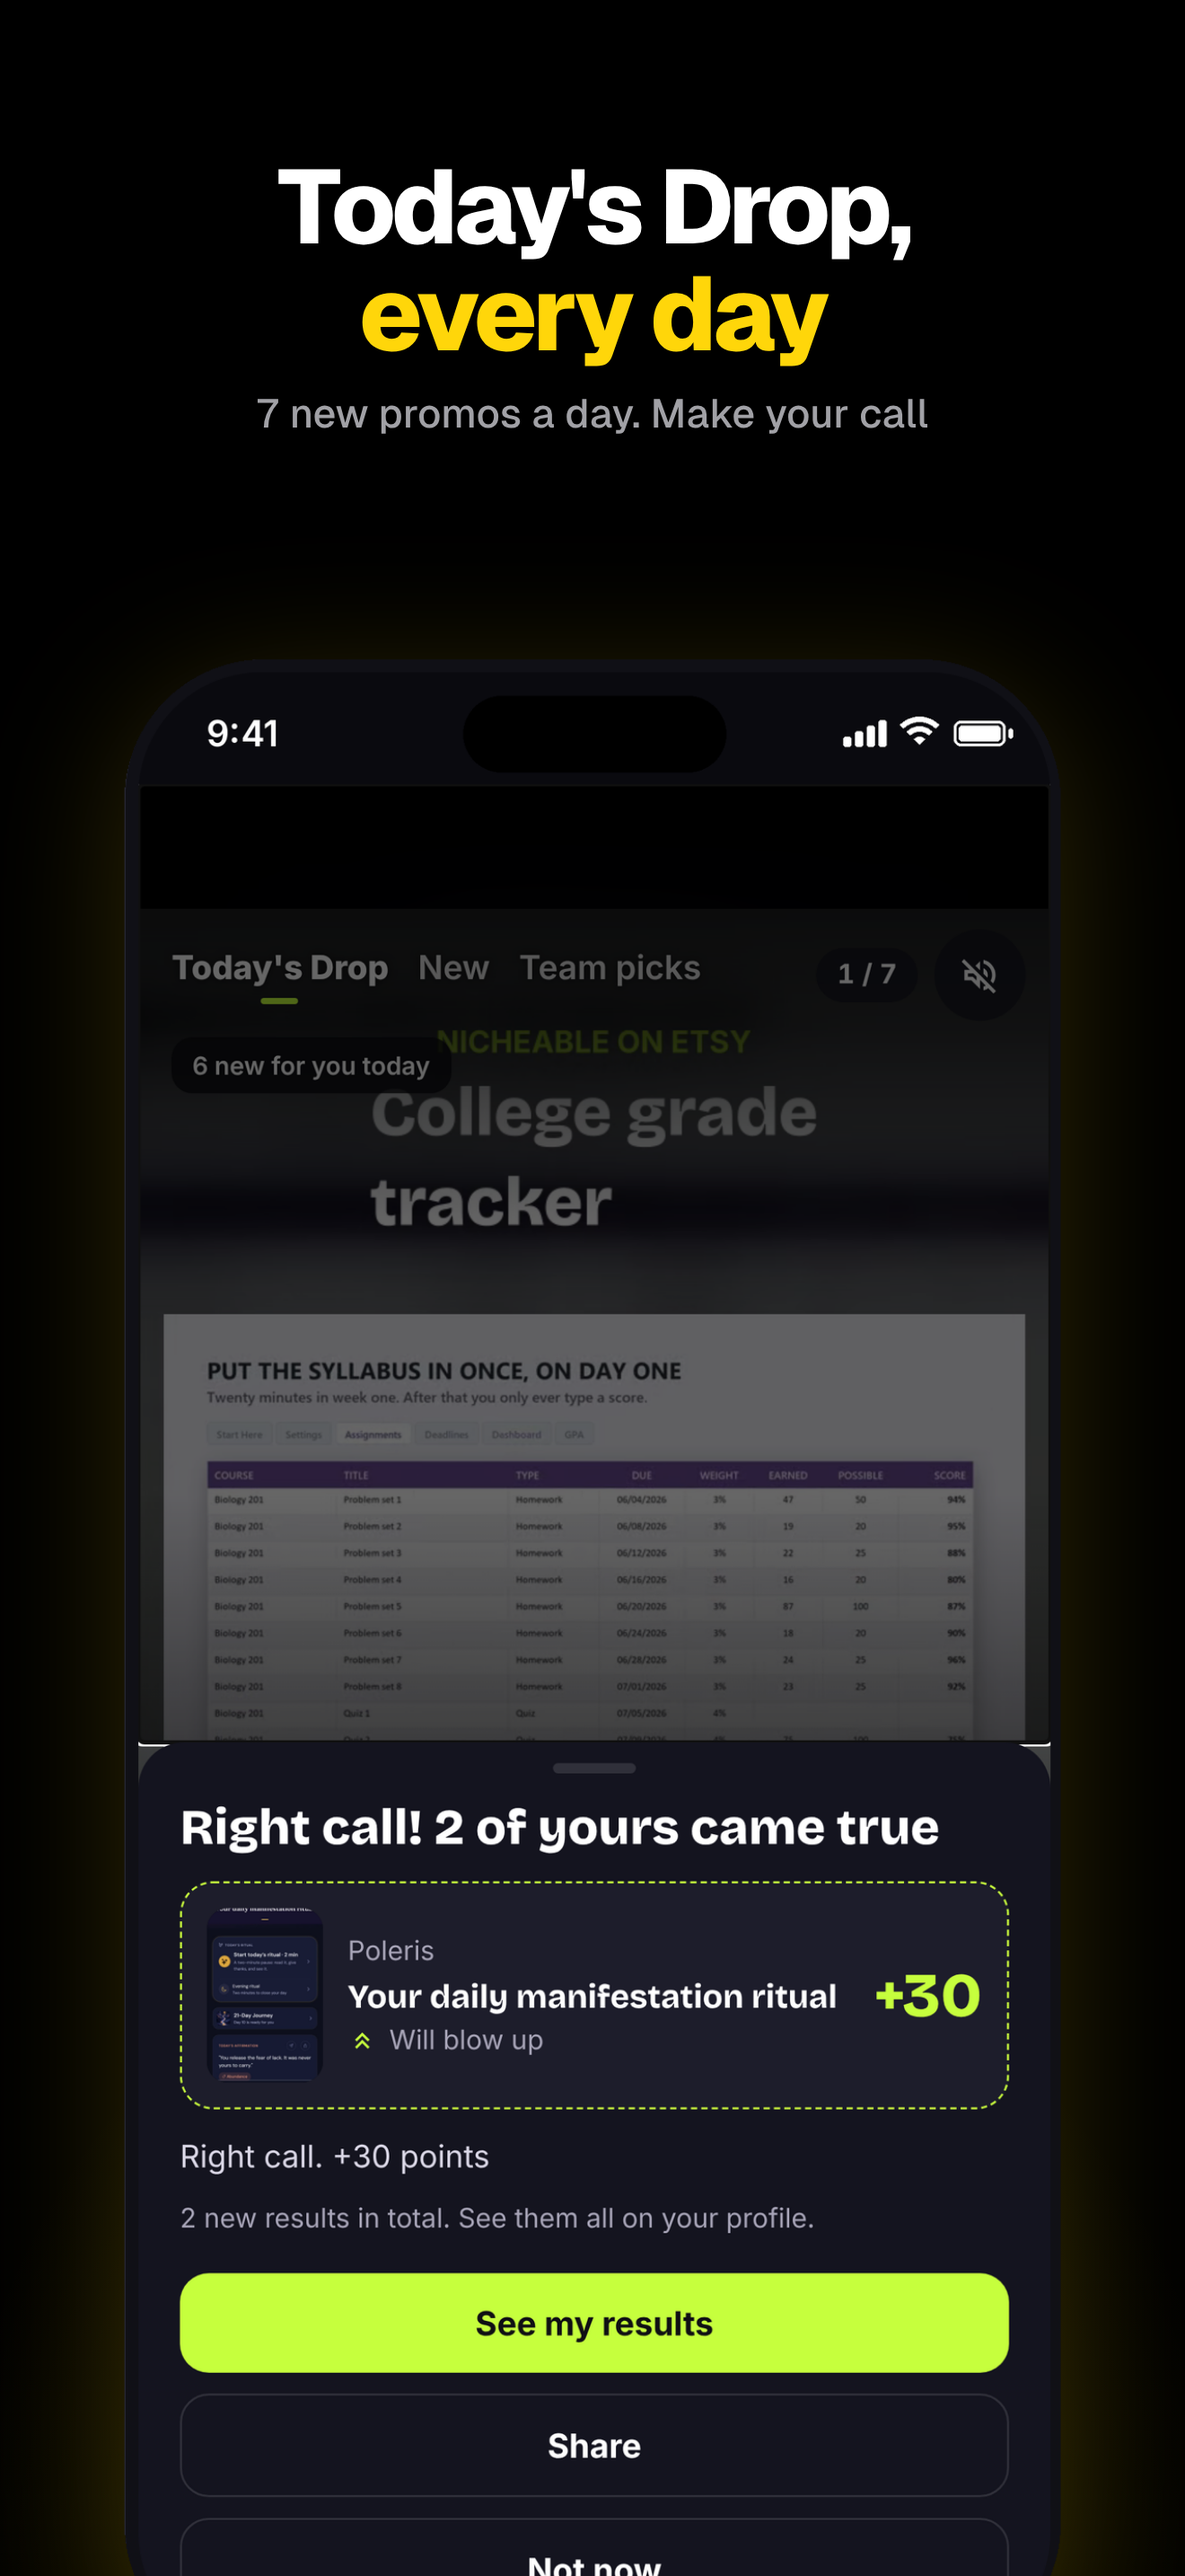
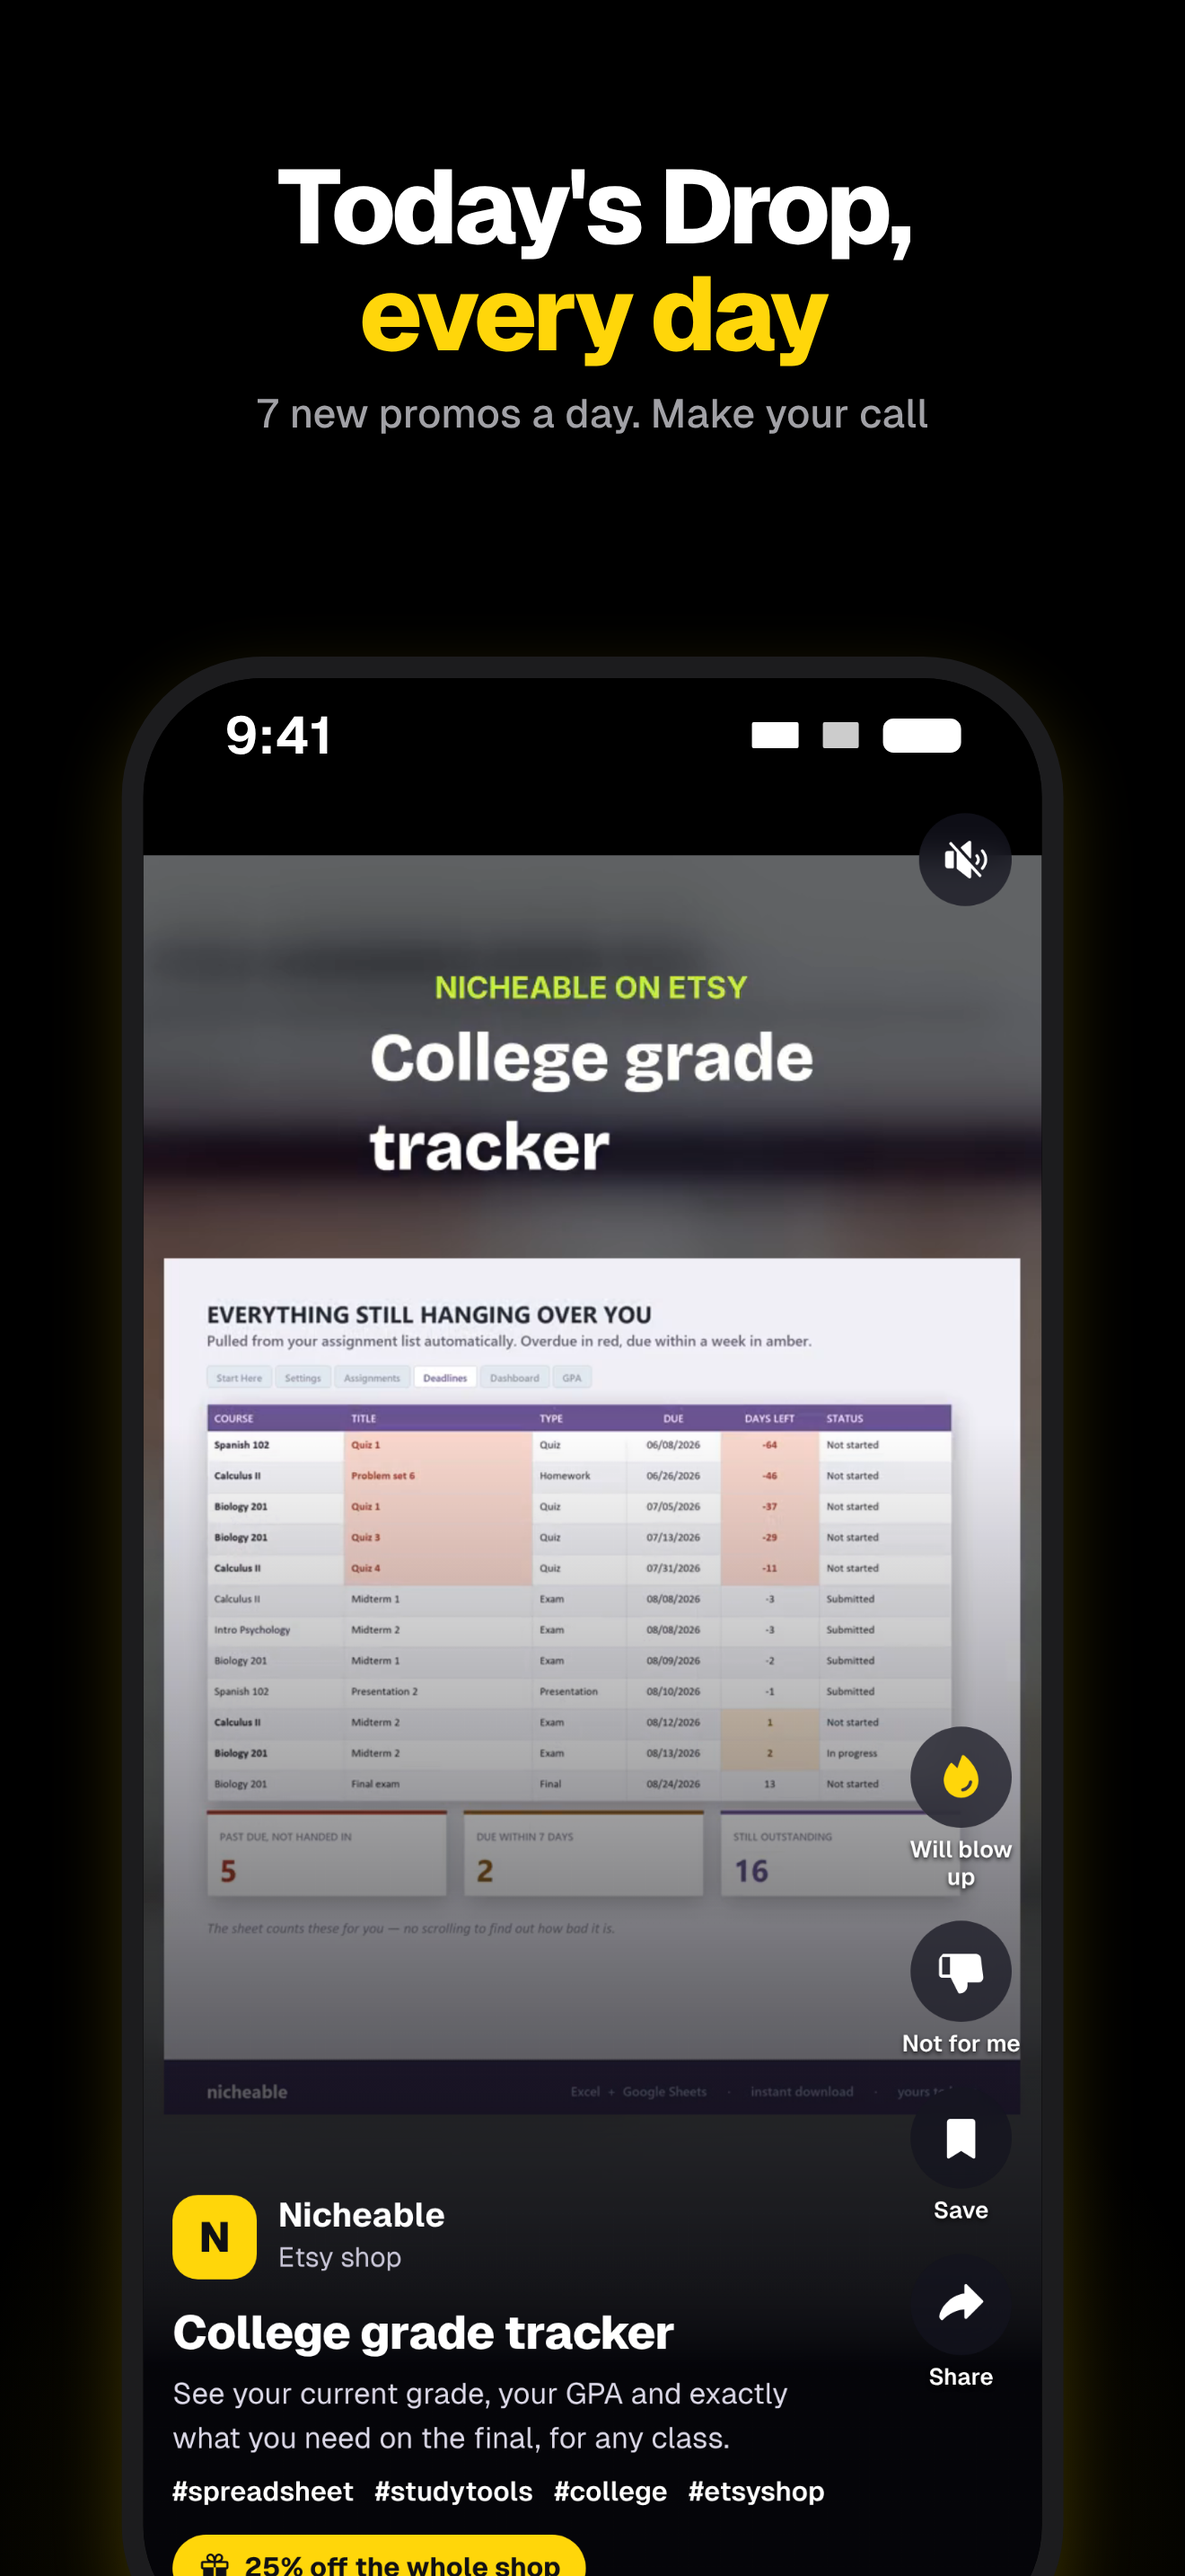
PromoVote ASO screenshots: web screens in new yellow, status bar, no store buttons, drop iPad
Claude-Session: https://claude.ai/code/session_016JsgeamkHnQbAu5HXaiNVR

diff --git a/store/screenshots/aso-2026-11/README.md b/store/screenshots/aso-2026-11/README.md
@@ -1,6 +1,5 @@
 # PromoVote ASO screenshots 2026-11 (English, first 3)
 
-Folders: iphone-6.9-1320x2868, ipad-13-2064x2752, play-phone-1080x1920. Files: 01-call, 02-duel, 03-drop.
-Real screens: 01 and 03 are cut from the app captures in store/assets/screens/ios/en (1-feed, 3-reveal). 02 is the Duel page of the web build (promovote.com/duel) in a phone frame, because the app Duel tab has no capture yet.
-The app captures still show the old lime green buttons; replace them after the next build with new captures.
+Folders: iphone-6.9-1320x2868, play-phone-1080x1920 (no iPad: the app is iPhone only). Files: 01-call, 02-duel, 03-drop.
+All three are real screens of the web build (promovote.com feed and Duel page, new yellow brand) in a phone frame with a 9:41 status bar. Site header, early access banner and store buttons are hidden (route A: no store buttons on iOS). 01 is the Dovelet reel, 03 the Nicheable reel, 02 the Duel page.
 Text: black, white, yellow #FFD60A, Geist. Not uploaded anywhere.
